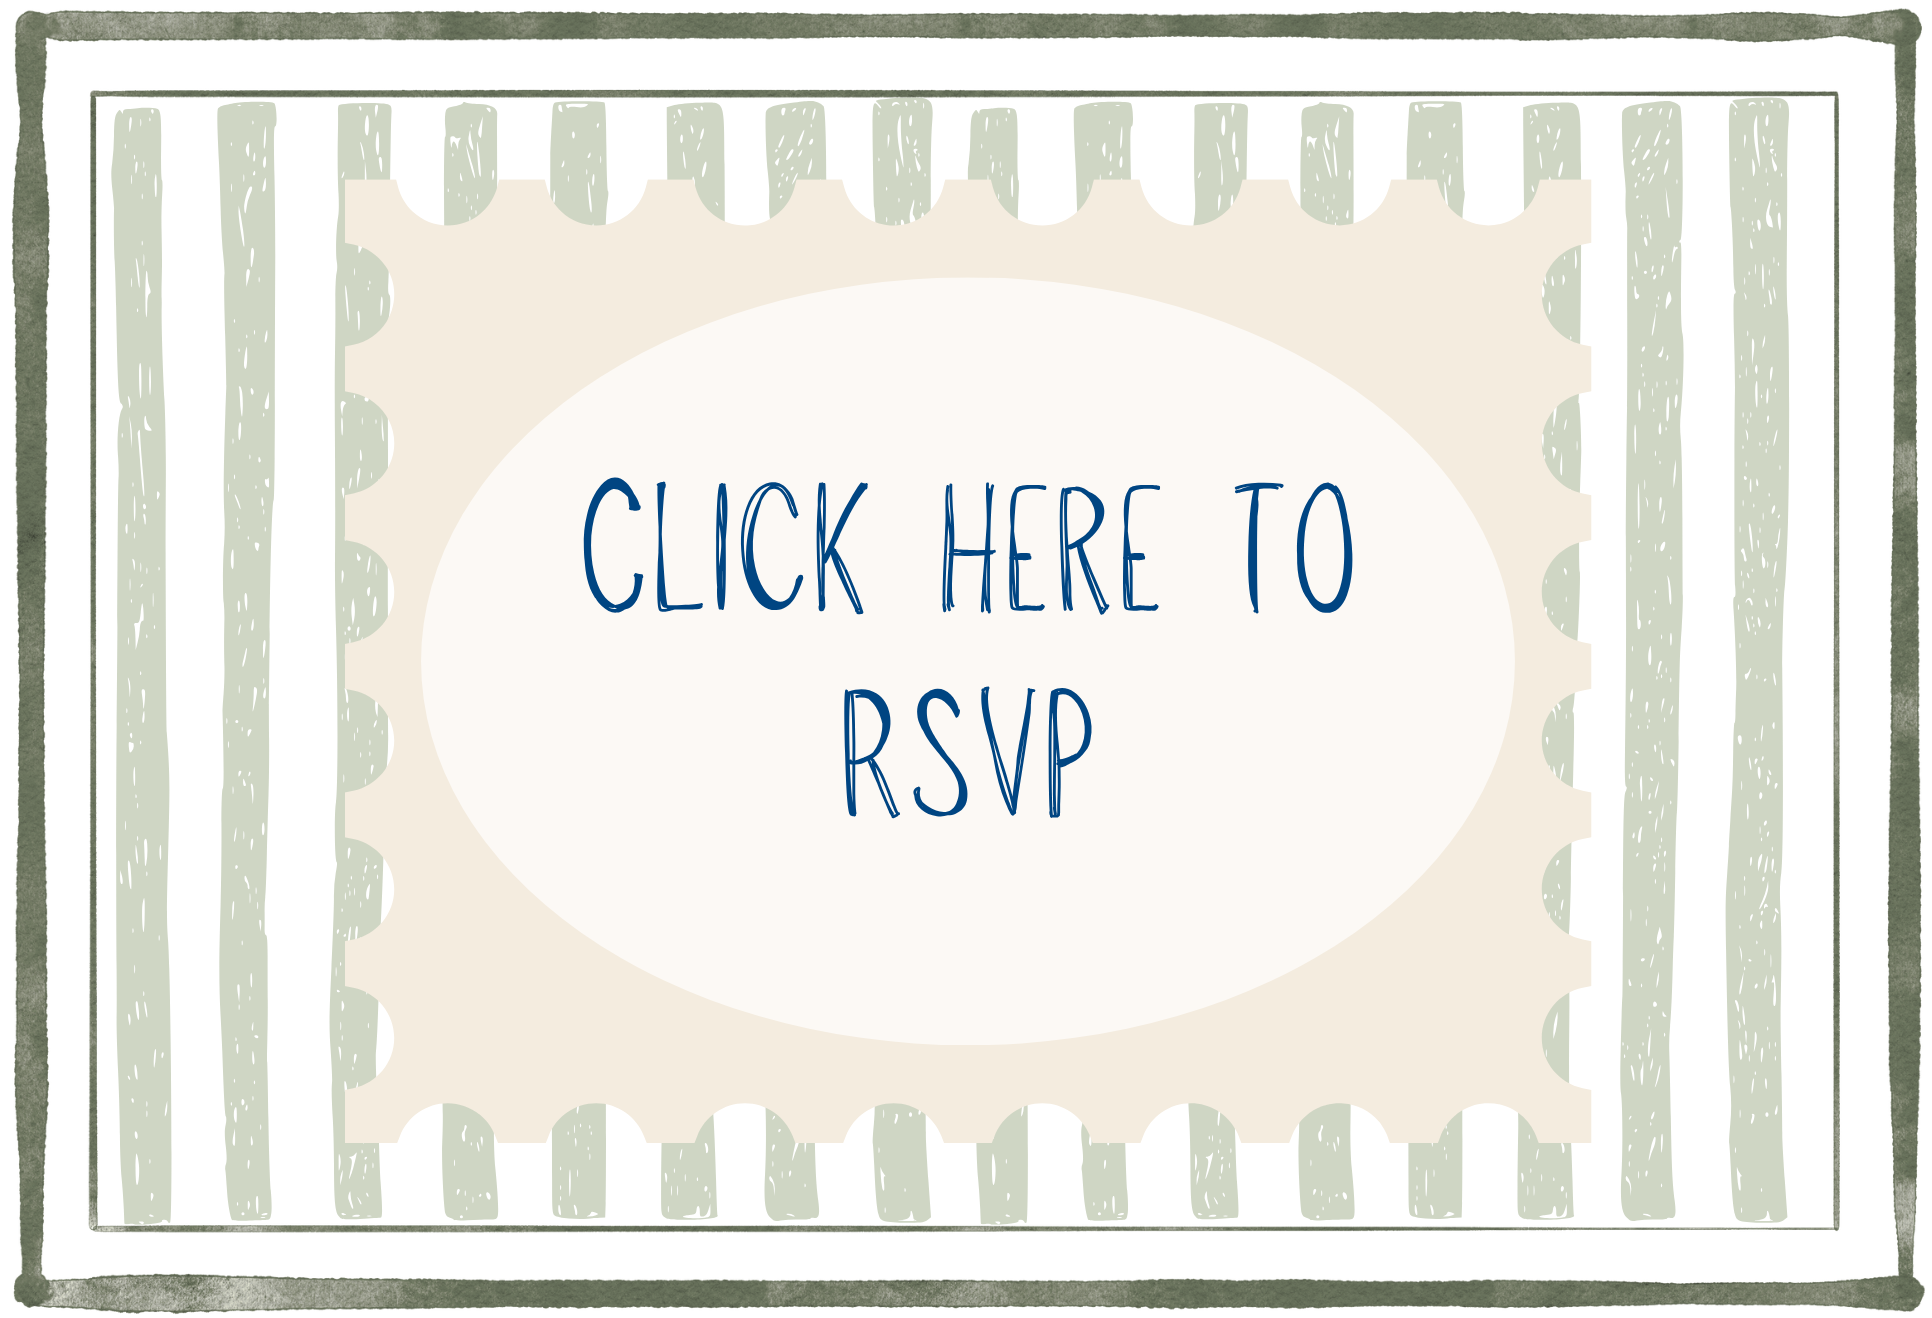
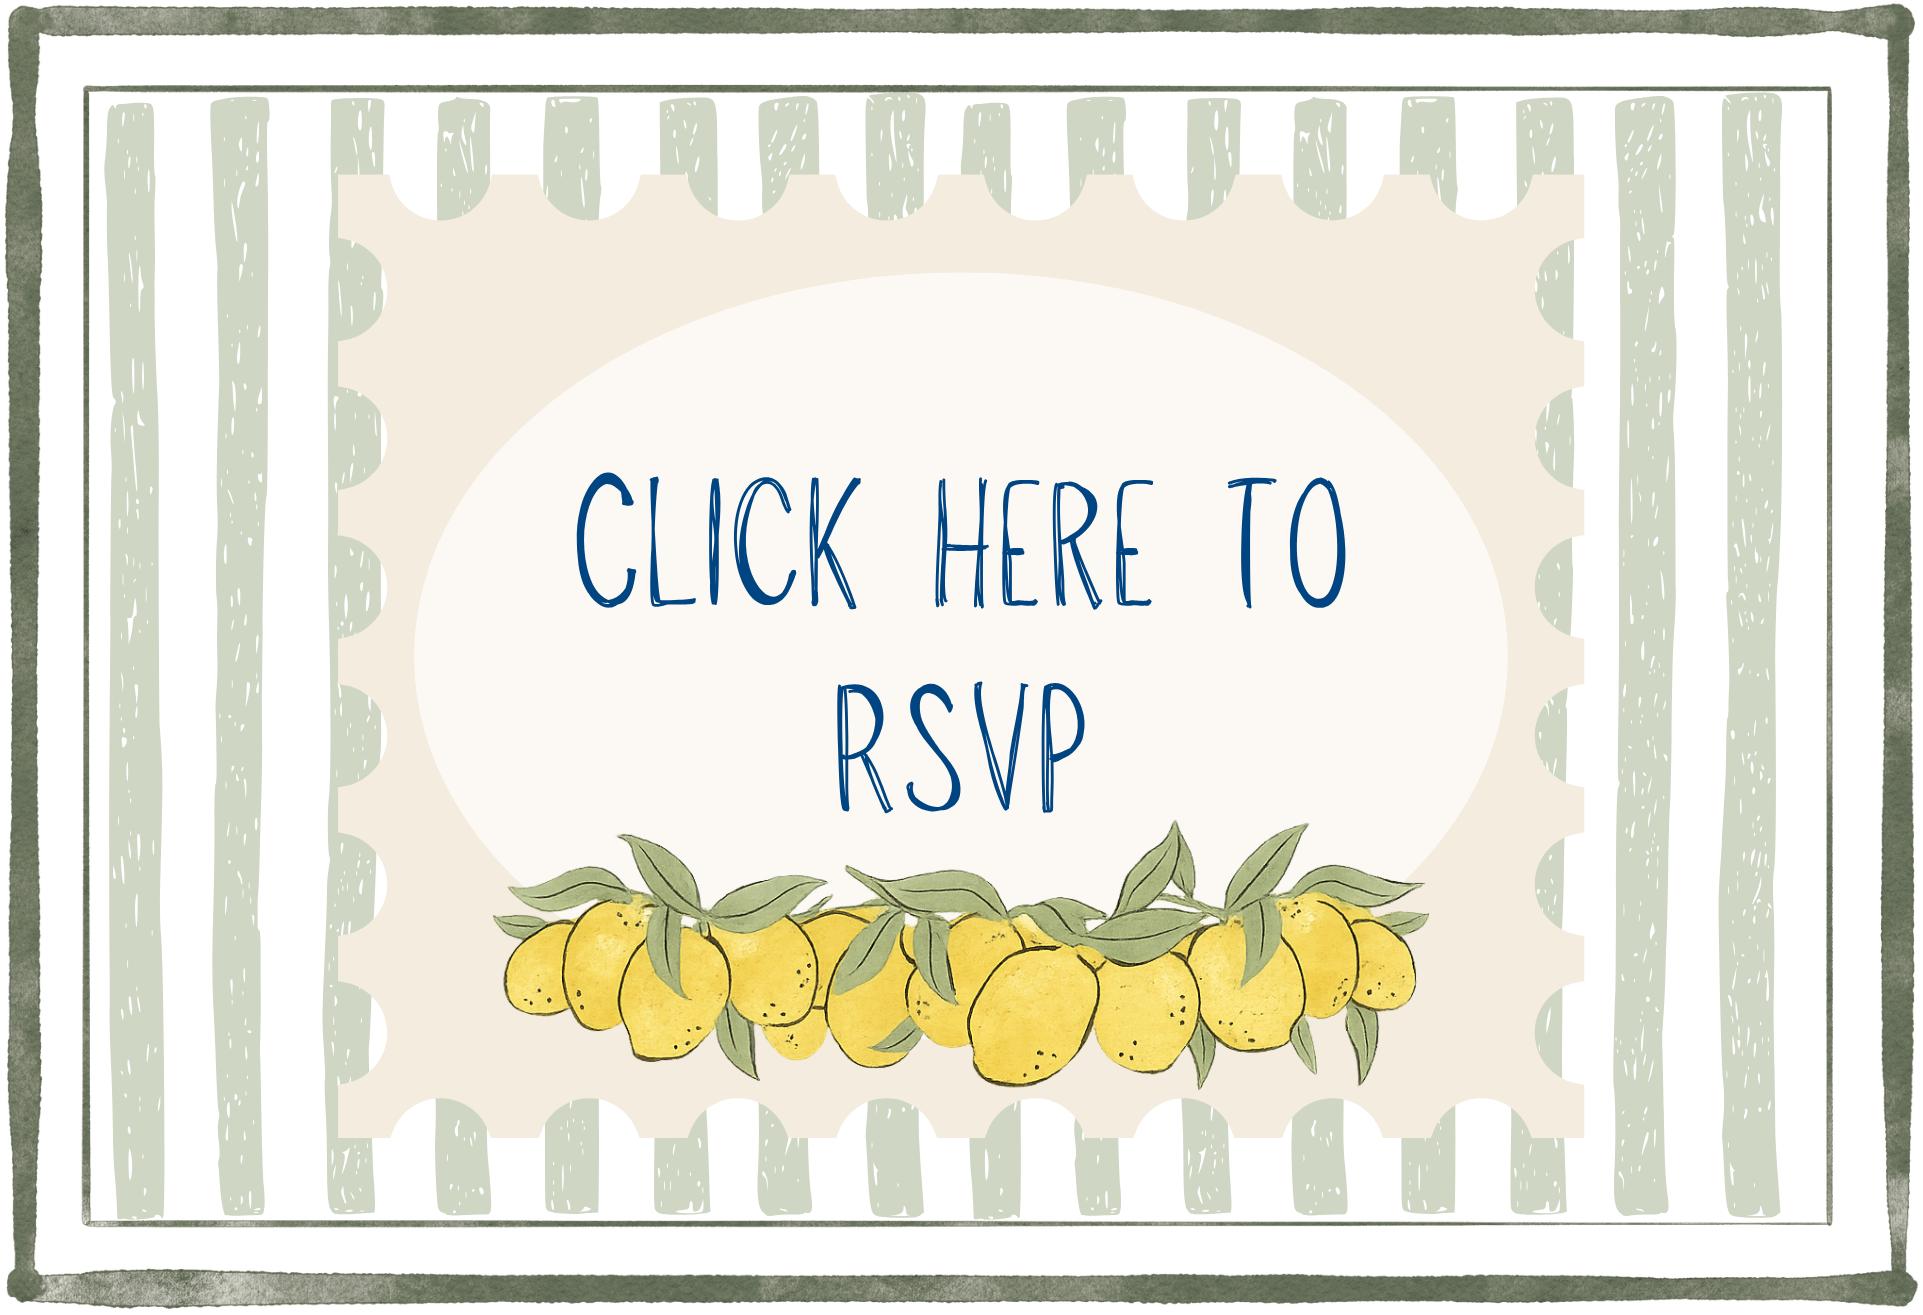
🎁 Adds name badge

diff --git a/app/page.tsx b/app/page.tsx
@@ -18,21 +18,32 @@ export default function Home() {
       {/* Tile border */}
       <div className="bg-[url('/tile-border.png')] bg-repeat-x bg-size-[auto_100%] h-16 lg:h-24 mb-4"></div>
 
+      {/* Name badge section */}
+      <section className="flex flex-col items-center">
+        <Image
+          className="px-4 pb-4 -rotate-3"
+          src="/kelly.png"
+          alt=""
+          width={500}
+          height={300}
+        />
+      </section>
+
       {/* Address and date section */}
       <section className="flex flex-col items-center">
         <div className="lg:flex lg:flex-row lg:gap-4">
           <Image
             className="px-4 lg:px-0 pb-4"
-            src="/address-only.png"
+            src="/address.png"
             alt=""
-            width={500}
+            width={600}
             height={300}
           />
           <Image
             className="px-4 lg:px-0 pb-4"
             src="/date-time.png"
             alt=""
-            width={500}
+            width={600}
             height={300}
           />
         </div>
@@ -43,21 +54,21 @@ export default function Home() {
         {/* <div className="flex flex-row gap-2 mb-2 px-8 lg:px-20 py-4 lg:py-12 bg-[url('/frame-thin.png')] bg-no-repeat bg-size-[100%_100%]"> */}
         <div className="flex flex-row gap-2 mb-2">
           <Image
-            className="lg:w-48"
+            className="lg:w-44"
             src="/starfish.png"
             alt=""
             width={100}
             height={200}
           />
           <Image
-            className="lg:w-48"
+            className="lg:w-44"
             src="/vintage-beach.png"
             alt=""
             width={100}
             height={200}
           />
           <Image
-            className="lg:w-48"
+            className="lg:w-44"
             src="/sailboat.png"
             alt=""
             width={100}
@@ -96,10 +107,20 @@ export default function Home() {
         </a>
       </section>
 
-      {/* Tile border */}
+      {/* Tile footer */}
       <div className="bg-[url('/tile-border.png')] bg-repeat-x bg-size-[auto_100%] h-16 lg:h-24 mt-4"></div>
-      <div className="bg-dark-azure h-16 lg:h-24">
-        <p className="text-background font-cursive p-8">&copy; Sarah Proctor</p>
+      <div className="bg-dark-azure h-14 flex items-center justify-between">
+        <p className="text-background font-cursive mx-8">
+          Crafted with love by
+          <br className="sm:hidden" /> Sarah Proctor &copy; 2026
+        </p>
+        <Image
+          className="mx-8"
+          src="/lemon.png"
+          alt=""
+          width={50}
+          height={50}
+        />
       </div>
     </main>
   )
